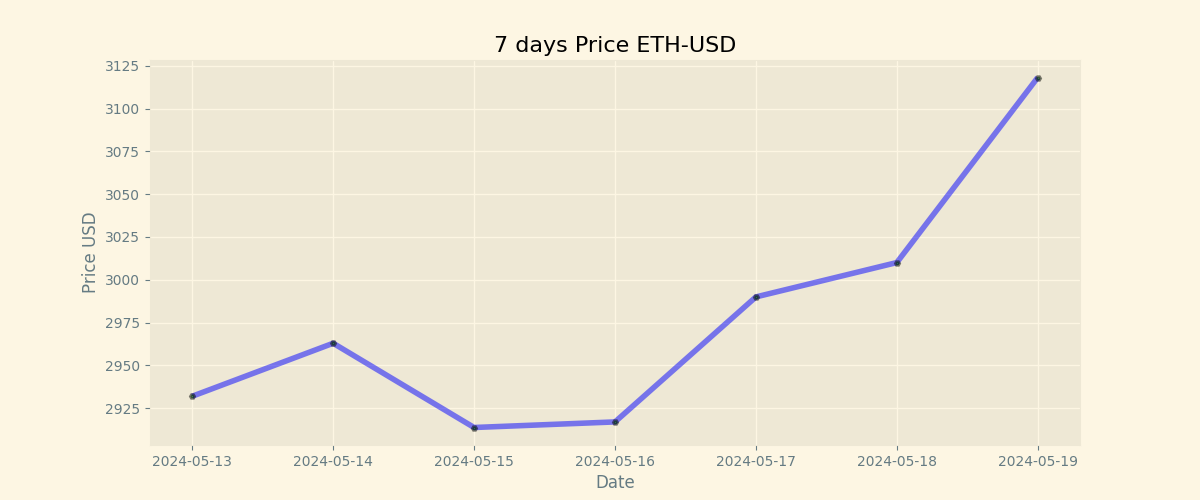
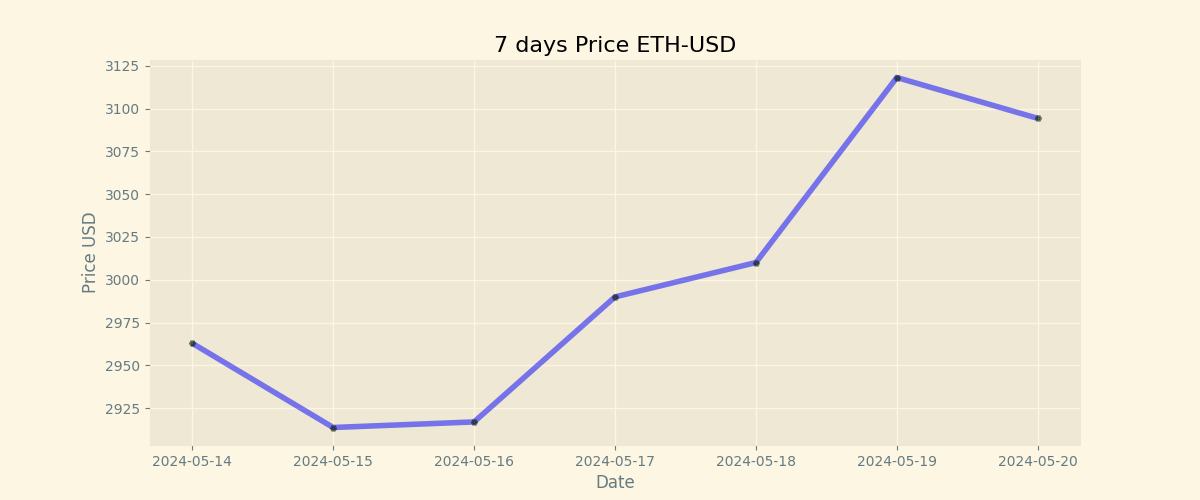
Duty Updates 2024-05-20

diff --git a/README.md b/README.md
@@ -9,8 +9,8 @@
 
 | Currency | Price           |
 | -------- | --------------- |
-| **BTC**  | **$ 66100.05** |
-| **ETH**  | **$ 3118.16** |
+| **BTC**  | **$ 67189.46** |
+| **ETH**  | **$ 3094.3** |
 
 ## BTC chart
 
